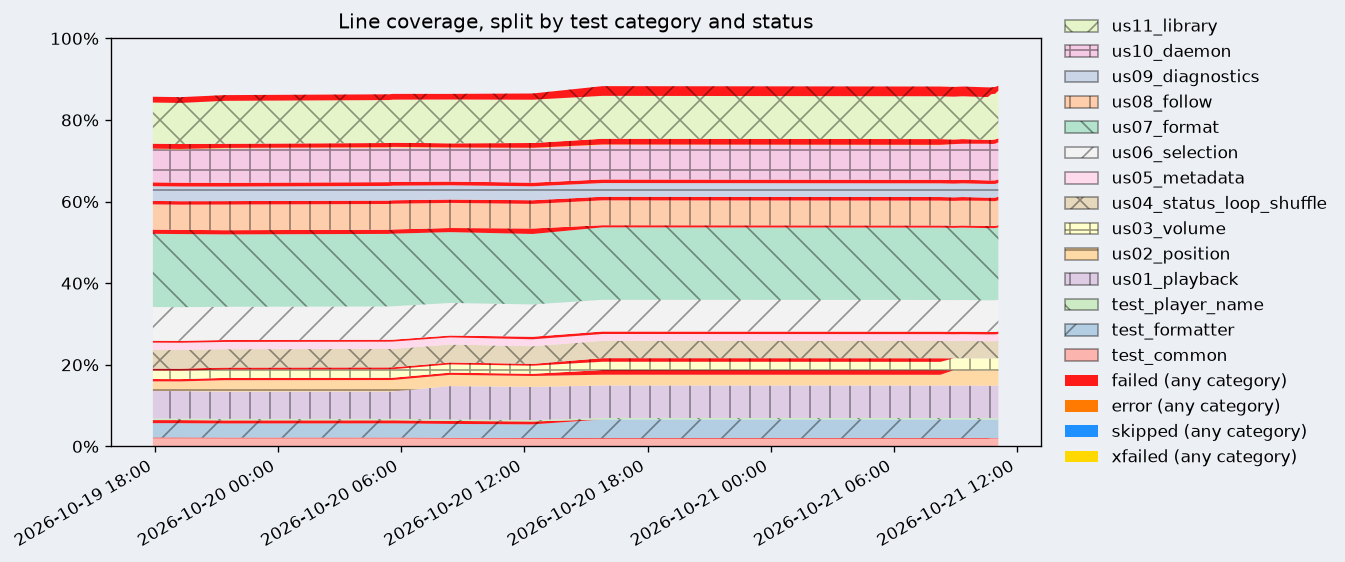
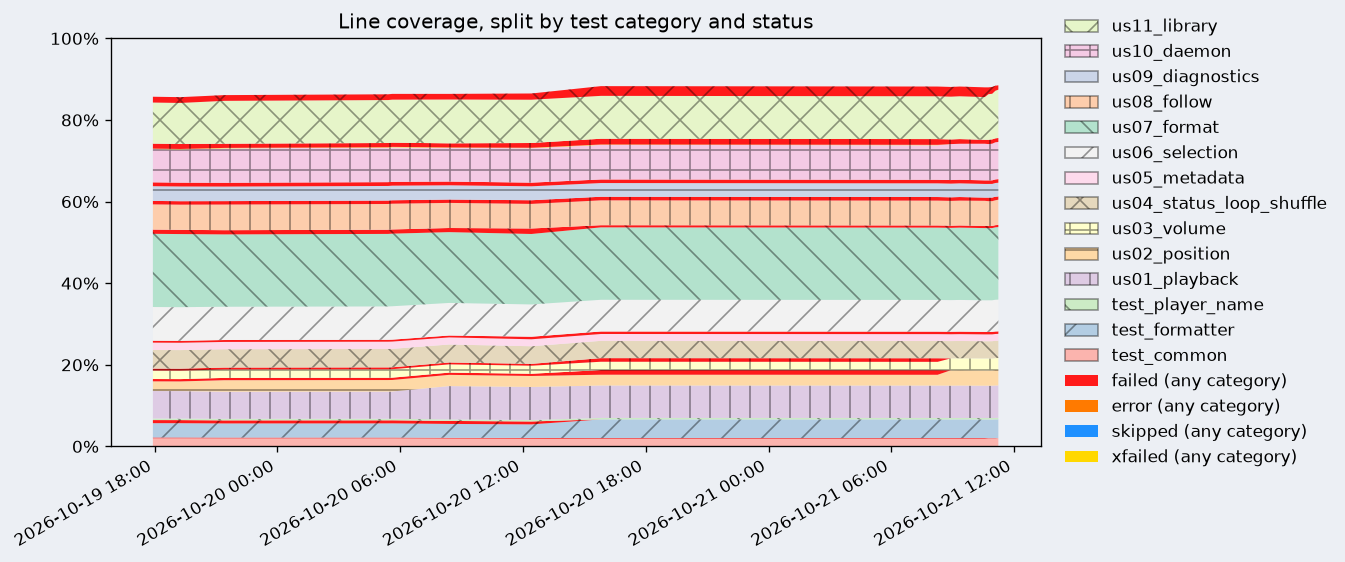
Fix type confusion in player name matching
pctl_player_name_find_instance passed its arguments to the comparison in
the wrong order, bus_name_for_player_name read a PlayerctlPlayerName as a
string and leaked the name list, and the manager searched the player list
with a name comparison.

diff --git a/playerctl/playerctl-player.c b/playerctl/playerctl-player.c
@@ -1086,8 +1086,9 @@ bus_name_for_player_name (gchar *name, GBusType bus_type, GError **err)
 {
   gchar *bus_name = NULL;
   GError *tmp_error = NULL;
+  PlayerctlSource source = pctl_bus_type_to_source (bus_type);
 
-  g_return_val_if_fail (err == NULL || *err == NULL, FALSE);
+  g_return_val_if_fail (err == NULL || *err == NULL, NULL);
 
   GList *names = pctl_list_player_names_on_bus (bus_type, &tmp_error);
   if (tmp_error != NULL)
@@ -1096,43 +1097,34 @@ bus_name_for_player_name (gchar *name, GBusType bus_type, GError **err)
       return NULL;
     }
 
+  GList *match = NULL;
   if (names == NULL)
     {
       return NULL;
     }
-
-  if (name == NULL)
+  else if (name == NULL)
     {
       g_debug ("Getting bus name for first available player");
-      PlayerctlPlayerName *name = names->data;
-      bus_name = g_strdup_printf (MPRIS_PREFIX "%s", name->instance);
-      pctl_player_name_list_destroy (names);
-      return bus_name;
+      match = names;
     }
-
-  GList *exact_match = pctl_player_name_find (
-      names, name, pctl_bus_type_to_source (bus_type));
-  if (exact_match != NULL)
+  else if ((match = pctl_player_name_find (names, name, source)) != NULL)
     {
       g_debug ("Getting bus name for player %s by exact match", name);
-      PlayerctlPlayerName *name = exact_match->data;
-      bus_name = g_strdup_printf (MPRIS_PREFIX "%s", name->instance);
-      g_list_free_full (names, (GDestroyNotify)playerctl_player_name_free);
-      return bus_name;
     }
-
-  GList *instance_match = pctl_player_name_find_instance (
-      names, name, pctl_bus_type_to_source (bus_type));
-  if (instance_match != NULL)
+  else if ((match = pctl_player_name_find_instance (names, name, source))
+           != NULL)
     {
       g_debug ("Getting bus name for player %s by instance match", name);
-      gchar *name = instance_match->data;
-      bus_name = g_strdup_printf (MPRIS_PREFIX "%s", name);
-      pctl_player_name_list_destroy (names);
-      return bus_name;
     }
 
-  return NULL;
+  if (match != NULL)
+    {
+      PlayerctlPlayerName *match_name = match->data;
+      bus_name = g_strdup_printf (MPRIS_PREFIX "%s", match_name->instance);
+    }
+
+  pctl_player_name_list_destroy (names);
+  return bus_name;
 }
 
 static void

diff --git a/playerctl/playerctl-common.c b/playerctl/playerctl-common.c
@@ -250,6 +250,16 @@ pctl_player_name_find (GList *list, gchar *player_id, PlayerctlSource source)
                              (GCompareFunc)pctl_player_name_compare);
 }
 
+/* g_list_find_custom passes (list item, search key), the reverse of the
+ * (name, instance) order of pctl_player_name_instance_compare. */
+static gint
+instance_compare_item_key (const PlayerctlPlayerName *item,
+                           const PlayerctlPlayerName *key)
+{
+  return pctl_player_name_instance_compare ((PlayerctlPlayerName *)key,
+                                            (PlayerctlPlayerName *)item);
+}
+
 GList *
 pctl_player_name_find_instance (GList *list, gchar *player_id,
                                 PlayerctlSource source)
@@ -260,7 +270,7 @@ pctl_player_name_find_instance (GList *list, gchar *player_id,
   };
 
   return g_list_find_custom (list, &player_name,
-                             (GCompareFunc)pctl_player_name_instance_compare);
+                             (GCompareFunc)instance_compare_item_key);
 }
 
 void

diff --git a/playerctl/playerctl-player-manager.c b/playerctl/playerctl-player-manager.c
@@ -355,7 +355,7 @@ dbus_name_owner_changed_callback (GDBusProxy *proxy, gchar *sender_name,
     {
       // the name has appeared
       player_entry
-          = pctl_player_name_find (manager->priv->players, player_id,
+          = pctl_player_name_find (manager->priv->player_names, player_id,
                                    pctl_bus_type_to_source (bus_type));
       if (player_entry == NULL)
         {

diff --git a/doc/CHANGELOG.md b/doc/CHANGELOG.md
@@ -3,6 +3,7 @@
 ## Version 2.6.0
 
 ### Bugfixes
+- `Player.new()` finds a player that only runs as an instance (`vlc.instance123`) by its base name, and no longer leaks the list of names or reads a wrong bus name; the manager looks up appearing names in its list of names
 - Reading the `metadata` property no longer aborts the client when the metadata cannot be fetched, and `get_artist`, `get_title` and `get_album` report the error
 - `playerctld` ignores a `Position` of the wrong type instead of aborting on a GLib critical
 - The library ignores `Volume`, `Shuffle`, `LoopStatus`, `PlaybackStatus` and `Metadata` changes of the wrong type instead of emitting garbage or GLib criticals, and no longer leaks a string on every `PropertiesChanged`
